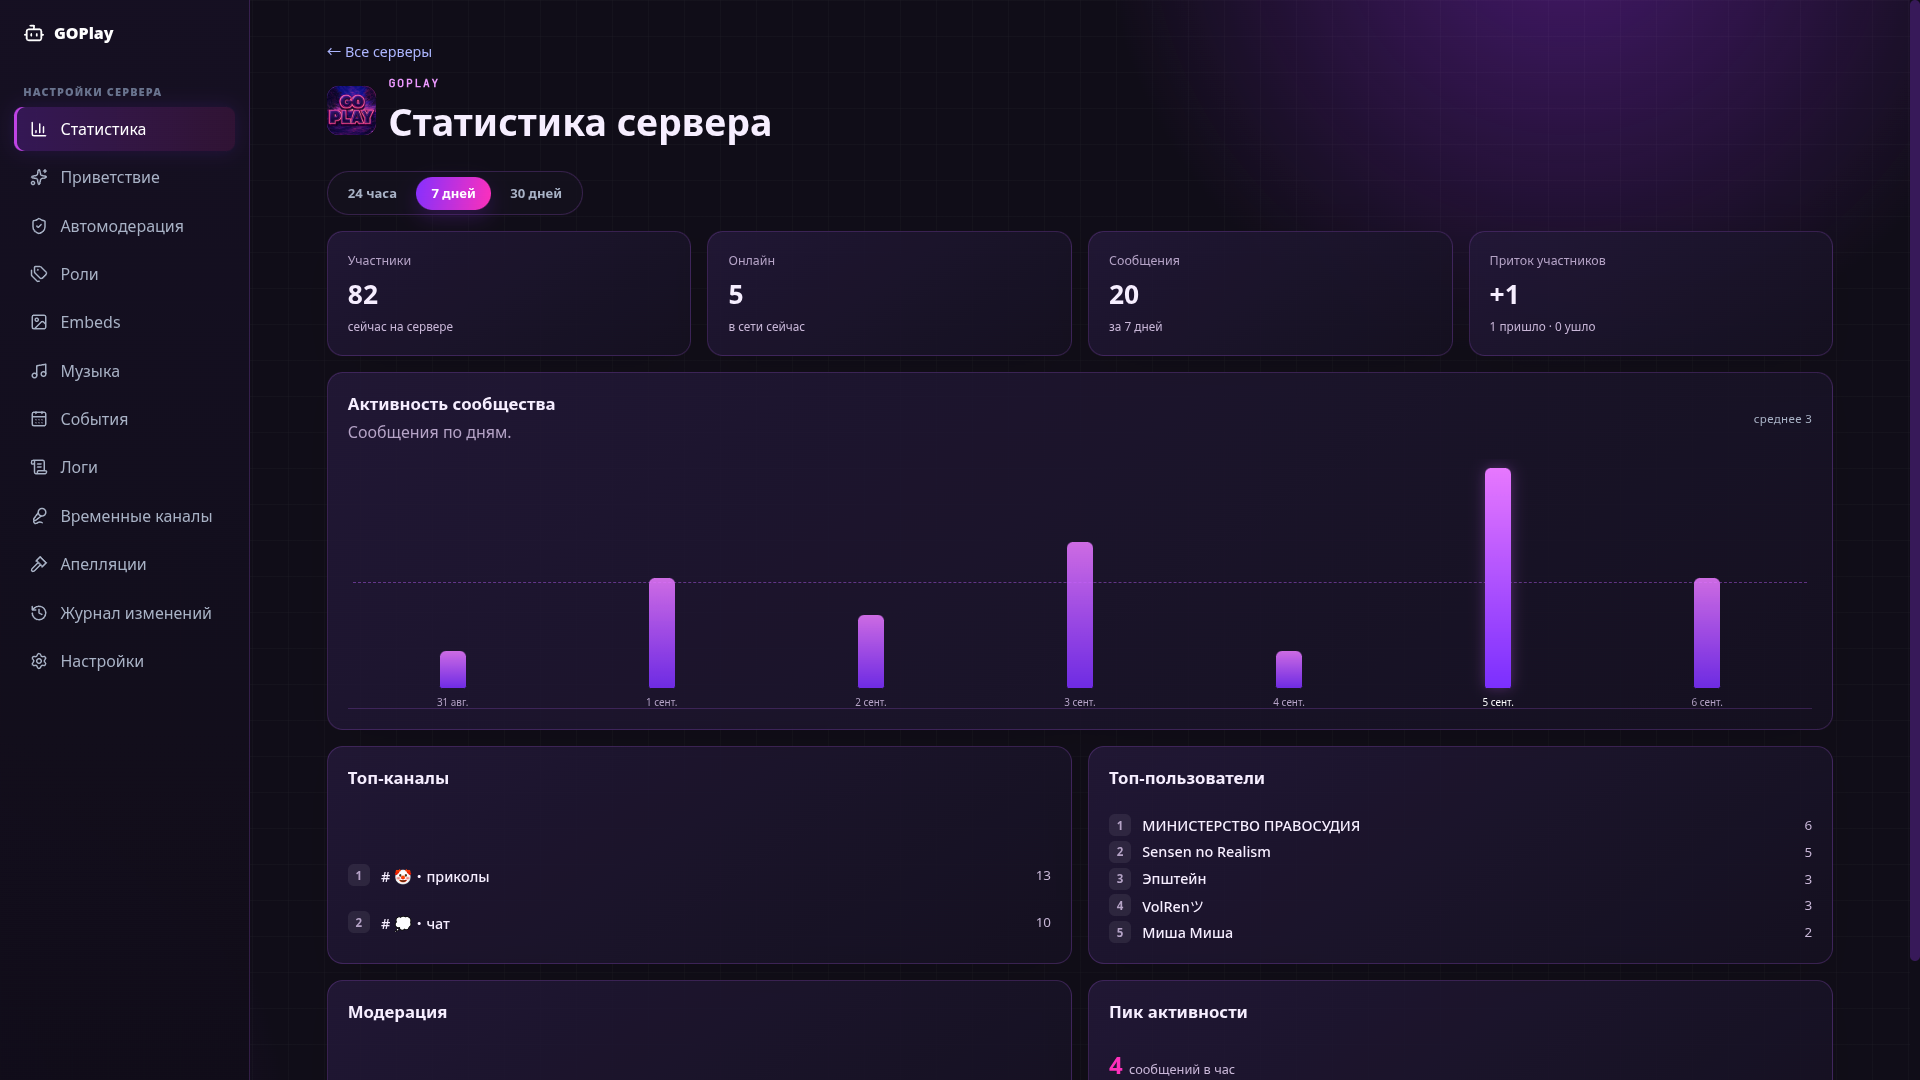
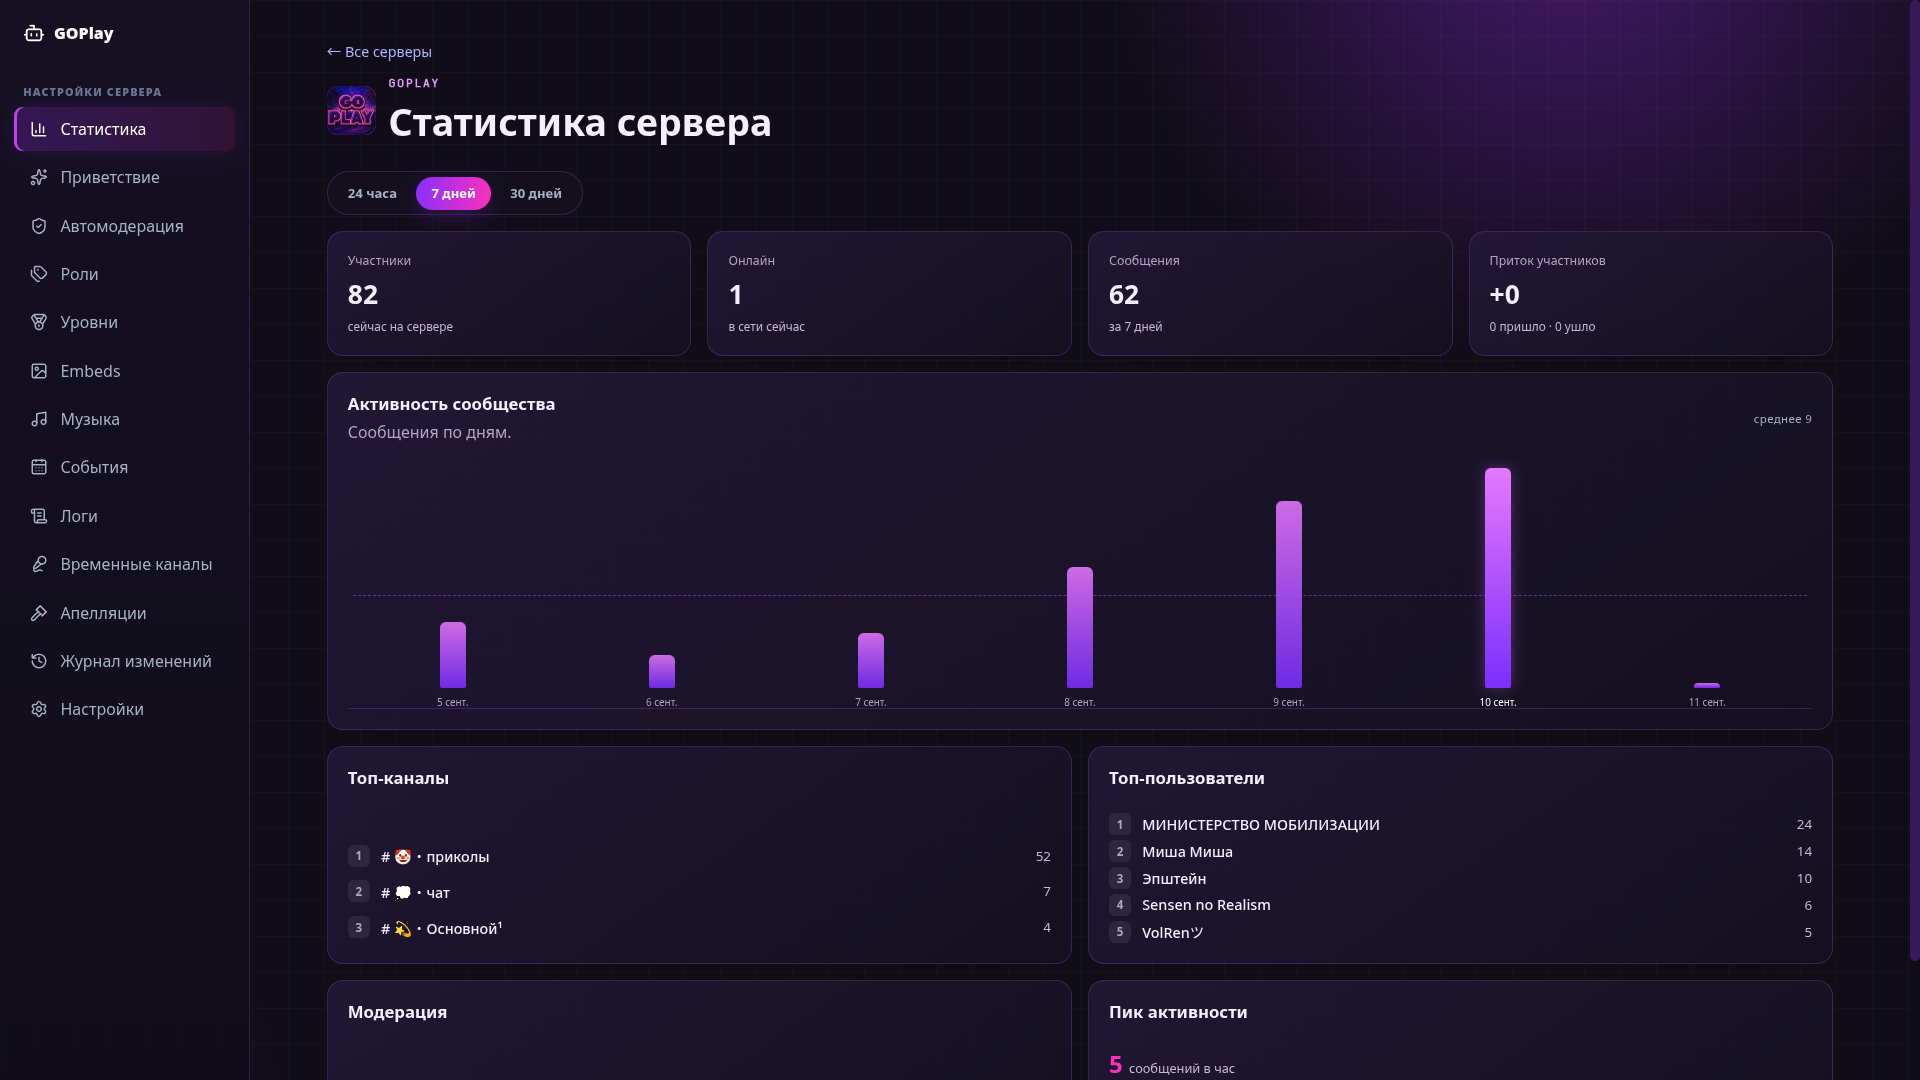
Update

diff --git a/README.md b/README.md
@@ -13,7 +13,7 @@ single process: a `discord.js` bot + a `Next.js` dashboard with Discord OAuth lo
 ## Features
 
 **Bot (slash commands, RU + EN localization):**
-- Info: `play`, `ping`, `help`, `user`, `server`, `avatar`.
+- Info: `play`, `ping`, `help`, `user`, `server`, `avatar`, `lvl`, `top`.
 - Moderation: `ban`, `kick`, `timeout` / `untimeout`, `warn` / `warnings` / `clearwarn`,
   `purge`, `slowmode`, `lock` / `unlock` (moderation commands are administrator-only).
 
@@ -24,6 +24,7 @@ single process: a `discord.js` bot + a `Next.js` dashboard with Discord OAuth lo
 | Welcome | Text + image for new members and farewells (templates like `{user}`, `{server}`, `{count}`…; rendered via resvg) |
 | Automod | Rules against spam, links, invites, flooding and duplicates; ignored roles, protected channel, punishment escalation |
 | Roles | Self-assignable roles via buttons, selects and reactions |
+| Levels | XP for messages and voice time, anti-farm rules (cooldown, min length, 2+ members in voice), level reward roles, notifications to a channel or DMs; `/lvl` and `/top` commands |
 | Embeds | Embed message builder, media attachments, templates |
 | Music | YouTube in a voice channel: `yt-dlp → ffmpeg (libopus) → voice`; queue up to 50 tracks, playlists up to 100, 2 h length limit |
 | Events | Event creation, participants, reminders |
@@ -119,10 +120,10 @@ app/                  Next.js App Router: landing, /dashboard, /admin,
                       upload serving (/uploads/...)
 src/bot/              Bot entry point (index.ts) + modules:
                       moderation, automod, appeals, logging,
-                      tempchannels, music, events, db, utils
+                      tempchannels, music, events, levels, db, utils
 src/db/               database.ts (node:sqlite, WAL) + migrations/*.sql
 src/lib/              Shared logic: auth, guild-access, automod, welcome,
-                      appeals, uploads, player/* (yt-dlp/ffmpeg stack), i18n
+                      appeals, levels, uploads, player/* (yt-dlp/ffmpeg stack), i18n
 src/components/       React: user-menu + dashboard/* (tab panels)
 scripts/              migrate-auth.ts, rotate-log.mjs (bot.log rotation > 5 MB)
 deploy/               nginx-ip-https.conf (reverse-proxy example)
